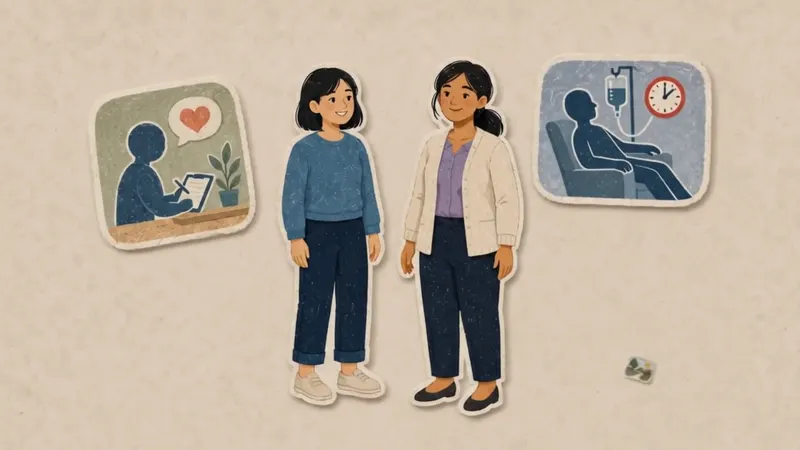
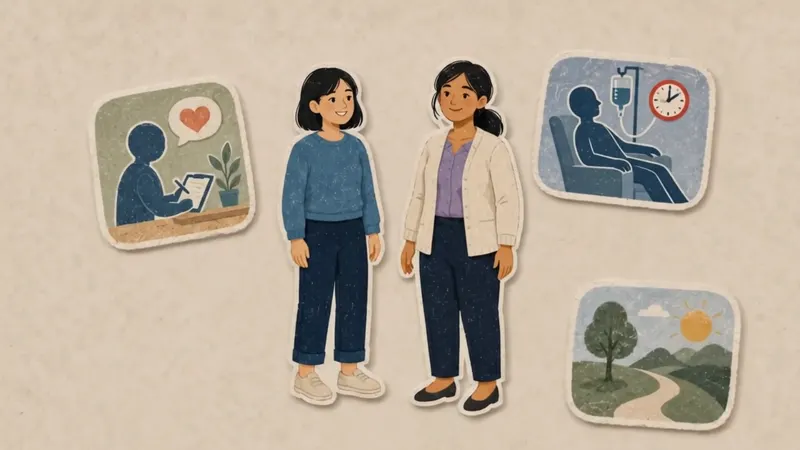
Update

Changed region(s): [[0.6875, 0.6222, 0.9375, 0.9644], [0.6562, 0.1244, 0.9062, 0.4978], [0.875, 0.3733, 0.9062, 0.4044]]

diff --git a/src/components/Navbar.jsx b/src/components/Navbar.jsx
@@ -85,9 +85,15 @@ const Navbar = () => {
       frame = 0;
       const header = document.querySelector('header');
       if (!header) return;
-      const y = Math.max(0, header.getBoundingClientRect().bottom - 2);
-      const under = document.elementsFromPoint(window.innerWidth / 2, y).find((el) => !header.contains(el));
-      setUseInverseNav(Boolean(under && under.closest('.hp-navy')));
+      /* sample the header's middle at three points and follow the majority, so it
+         flips when a navy sheet covers most of it, not at one pixel's edge */
+      const box = header.getBoundingClientRect();
+      const y = Math.max(0, box.top + box.height / 2);
+      const navy = [0.15, 0.5, 0.85].filter((fx) => {
+        const under = document.elementsFromPoint(window.innerWidth * fx, y).find((el) => !header.contains(el));
+        return Boolean(under && under.closest('.hp-navy'));
+      }).length;
+      setUseInverseNav(navy >= 2);
     };
     const onScroll = () => {
       if (!frame) frame = window.requestAnimationFrame(updateNavContrast);
@@ -110,7 +116,9 @@ const Navbar = () => {
   const navActiveColor = useInverseNav ? 'rgba(255,255,255,0.98)' : 'primary.main';
   const navSurfaceStyles = useInverseNav
     ? {
-        bgcolor: 'rgba(8, 20, 28, 0.28)',
+        /* near-opaque navy over the navy paper sheets, so cream content showing
+           through the glass can never wash out the light labels */
+        bgcolor: 'rgba(27, 69, 96, 0.94)',
         backdropFilter: 'blur(25px) saturate(180%)',
         WebkitBackdropFilter: 'blur(25px) saturate(180%)',
         borderBottom: 'none',
@@ -176,7 +184,7 @@ const Navbar = () => {
             color='primary'
             component={Link}
             href='/estimate'
-            sx={{ boxShadow: 'none', '&:hover': { boxShadow: 'none' }, color: 'white' }}
+            sx={{ bgcolor: '#00796b', boxShadow: 'none', '&:hover': { bgcolor: '#00695c', boxShadow: 'none' }, color: 'white' }}
           >
             {t('navbar.freeEstimate')}
           </Button>
@@ -358,8 +366,10 @@ const Navbar = () => {
                   href='/estimate'
                   sx={{
                     ml: 2,
+                    /* the brand teal one step deeper: white text at 5.3:1 (theme #00897b is 4.3:1) */
+                    bgcolor: '#00796b',
                     boxShadow: 'none',
-                    '&:hover': { boxShadow: 'none' },
+                    '&:hover': { bgcolor: '#00695c', boxShadow: 'none' },
                     color: 'white',
                   }}
                 >

diff --git a/src/app/not-found.jsx b/src/app/not-found.jsx
@@ -1,30 +1,50 @@
 'use client';
 
-import { Box, Typography, Button } from '@mui/material';
 import Link from 'next/link';
+import { House } from 'lucide-react';
+import Navbar from '@/components/Navbar';
+import Footer from '@/components/Footer';
+import PaperPage from '@/components/paper/PaperPage';
+import PageHero from '@/components/paper/PageHero';
+import { cls } from '@/components/paper/paperStyles';
+import { useLanguage } from '@/context/LanguageContext';
 
+const COPY = {
+  en: {
+    title: 'Page not found',
+    home: 'Go Home',
+    alt: 'Illustration from the MyHealth Haven film: a patient stands in a maze of grey paths.',
+  },
+  es: {
+    title: 'Página no encontrada',
+    home: 'Ir al inicio',
+    alt: 'Ilustración de la película de MyHealth Haven: una paciente de pie en un laberinto de caminos grises.',
+  },
+};
+
+/*
+ * 404 in the paper world: the site header and footer (so a lost visitor can find
+ * their way), and the film's maze before the path is found, with the way home as
+ * the one action. Same words as before ("404", "Page not found", "Go Home").
+ */
 export default function NotFound() {
+  const { language } = useLanguage();
+  const t = COPY[language === 'es' ? 'es' : 'en'];
+
   return (
-    <Box
-      sx={{
-        display: 'flex',
-        flexDirection: 'column',
-        alignItems: 'center',
-        justifyContent: 'center',
-        minHeight: '60vh',
-        textAlign: 'center',
-        p: 4,
-      }}
-    >
-      <Typography variant='h2' color='primary' gutterBottom fontWeight='bold'>
-        404
-      </Typography>
-      <Typography variant='h5' color='text.secondary' paragraph>
-        Page not found
-      </Typography>
-      <Button variant='contained' color='primary' component={Link} href='/'>
-        Go Home
-      </Button>
-    </Box>
+    <div className='flex min-h-screen flex-col'>
+      <Navbar />
+      <main className='flex-1'>
+        <PaperPage>
+          <PageHero id='nf-title' title='404' emphasis={t.title} frame={{ src: '/pages/lost-maze.webp', alt: t.alt }}>
+            <Link href='/' className={cls.btnPrimary}>
+              <House aria-hidden='true' className='size-5' />
+              {t.home}
+            </Link>
+          </PageHero>
+        </PaperPage>
+      </main>
+      <Footer />
+    </div>
   );
 }

diff --git a/src/app/(main)/loading.jsx b/src/app/(main)/loading.jsx
@@ -1,20 +1,31 @@
-import { Box, Container, Skeleton, Stack } from '@mui/material';
+/*
+ * Any page while it loads, as blank paper: the cream hero sheet (title, lead and
+ * button blocks beside a frame window) and the start of a kraft sheet below.
+ * Blocks pulse only when motion is allowed.
+ */
+const block = 'rounded-[6px] bg-[rgba(27,69,96,0.09)] motion-safe:animate-pulse';
 
 export default function Loading() {
   return (
-    <Box sx={{ py: { xs: 8, md: 12 } }}>
-      <Container maxWidth='lg'>
-        <Stack spacing={3}>
-          <Skeleton variant='text' width='50%' height={56} />
-          <Skeleton variant='text' width='80%' height={28} />
-          <Skeleton variant='rectangular' height={320} sx={{ borderRadius: 2 }} />
-          <Stack direction='row' spacing={2}>
-            <Skeleton variant='rectangular' width='33%' height={180} sx={{ borderRadius: 2 }} />
-            <Skeleton variant='rectangular' width='33%' height={180} sx={{ borderRadius: 2 }} />
-            <Skeleton variant='rectangular' width='33%' height={180} sx={{ borderRadius: 2 }} />
-          </Stack>
-        </Stack>
-      </Container>
-    </Box>
+    <div aria-busy='true'>
+      <div className='bg-[#f4eee5]'>
+        <div className='mx-auto grid w-full max-w-[1360px] grid-cols-1 items-center gap-10 px-4 pb-16 pt-10 sm:px-8 md:pb-20 md:pt-14 lg:grid-cols-[minmax(0,1fr)_minmax(0,1.05fr)] lg:gap-14 lg:px-12 lg:pb-24 lg:pt-16'>
+          <div className='max-w-[38rem]'>
+            <div className={`${block} h-12 w-[70%]`} />
+            <div className={`${block} mt-3 h-12 w-[50%]`} />
+            <div className={`${block} mt-8 h-5 w-[90%]`} />
+            <div className={`${block} mt-3 h-5 w-[75%]`} />
+            <div className={`${block} mt-9 h-[54px] w-[260px] max-w-full rounded-full`} />
+          </div>
+          <div className='aspect-video w-full rounded-[10px] bg-[#d1c5b4] motion-safe:animate-pulse' />
+        </div>
+      </div>
+      <div className='min-h-[40vh] bg-[#e9dfcf]'>
+        <div className='mx-auto w-full max-w-[1360px] px-4 py-14 sm:px-8 lg:px-12 lg:py-20'>
+          <div className={`${block} h-9 w-[40%] max-w-[28rem]`} />
+          <div className={`${block} mt-4 h-5 w-[60%] max-w-[36rem]`} />
+        </div>
+      </div>
+    </div>
   );
 }

diff --git a/src/app/(main)/library/costs-and-planning/[slug]/loading.jsx b/src/app/(main)/library/costs-and-planning/[slug]/loading.jsx
@@ -1,25 +1,31 @@
-import { Box, Container, Skeleton, Stack, Divider } from '@mui/material';
+/*
+ * An article while it loads, as blank paper: the kraft hero (crumbs, title,
+ * excerpt, meta) and the cream reading sheet with lines at the reading measure.
+ * Blocks pulse only when motion is allowed.
+ */
+const block = 'rounded-[6px] bg-[rgba(27,69,96,0.09)] motion-safe:animate-pulse';
 
 export default function ArticleLoading() {
   return (
-    <Box sx={{ py: { xs: 8, md: 12 }, bgcolor: 'background.paper', minHeight: '80vh' }}>
-      <Container maxWidth='md'>
-        <Stack spacing={2} sx={{ mb: 4 }}>
-          {/* Breadcrumbs */}
-          <Skeleton variant='text' width={260} height={20} />
-          {/* Title */}
-          <Skeleton variant='text' width='75%' height={56} />
-          {/* Summary */}
-          <Skeleton variant='text' width='90%' height={24} />
-          <Skeleton variant='text' width='60%' height={24} />
-        </Stack>
-        <Divider sx={{ mb: 6 }} />
-        <Stack spacing={2}>
-          {Array.from({ length: 8 }).map((_, i) => (
-            <Skeleton key={i} variant='text' width={`${85 + (i % 3) * 5}%`} height={20} />
-          ))}
-        </Stack>
-      </Container>
-    </Box>
+    <div aria-busy='true'>
+      <div className='bg-[#e9dfcf]'>
+        <div className='mx-auto w-full max-w-[1360px] px-4 pb-14 pt-8 sm:px-8 lg:px-12 lg:pb-20 lg:pt-12'>
+          <div className={`${block} h-4 w-[260px] max-w-full`} />
+          <div className={`${block} mt-8 h-11 w-[80%] max-w-[44rem]`} />
+          <div className={`${block} mt-3 h-11 w-[55%] max-w-[30rem]`} />
+          <div className={`${block} mt-7 h-5 w-[70%] max-w-[36rem]`} />
+          <div className={`${block} mt-5 h-4 w-[220px] max-w-full`} />
+        </div>
+      </div>
+      <div className='min-h-[60vh] bg-[#f4eee5]'>
+        <div className='mx-auto w-full max-w-[1360px] px-4 py-14 sm:px-8 lg:px-12 lg:py-20'>
+          <div className='max-w-[34rem]'>
+            {Array.from({ length: 9 }).map((_, i) => (
+              <div key={i} className={`${block} mt-4 h-4`} style={{ width: `${86 + (i % 3) * 6}%` }} />
+            ))}
+          </div>
+        </div>
+      </div>
+    </div>
   );
 }

diff --git a/src/app/(main)/library/getting-started/[slug]/loading.jsx b/src/app/(main)/library/getting-started/[slug]/loading.jsx
@@ -1,25 +1,31 @@
-import { Box, Container, Skeleton, Stack, Divider } from '@mui/material';
+/*
+ * An article while it loads, as blank paper: the kraft hero (crumbs, title,
+ * excerpt, meta) and the cream reading sheet with lines at the reading measure.
+ * Blocks pulse only when motion is allowed.
+ */
+const block = 'rounded-[6px] bg-[rgba(27,69,96,0.09)] motion-safe:animate-pulse';
 
 export default function ArticleLoading() {
   return (
-    <Box sx={{ py: { xs: 8, md: 12 }, bgcolor: 'background.paper', minHeight: '80vh' }}>
-      <Container maxWidth='md'>
-        <Stack spacing={2} sx={{ mb: 4 }}>
-          {/* Breadcrumbs */}
-          <Skeleton variant='text' width={260} height={20} />
-          {/* Title */}
-          <Skeleton variant='text' width='75%' height={56} />
-          {/* Summary */}
-          <Skeleton variant='text' width='90%' height={24} />
-          <Skeleton variant='text' width='60%' height={24} />
-        </Stack>
-        <Divider sx={{ mb: 6 }} />
-        <Stack spacing={2}>
-          {Array.from({ length: 8 }).map((_, i) => (
-            <Skeleton key={i} variant='text' width={`${85 + (i % 3) * 5}%`} height={20} />
-          ))}
-        </Stack>
-      </Container>
-    </Box>
+    <div aria-busy='true'>
+      <div className='bg-[#e9dfcf]'>
+        <div className='mx-auto w-full max-w-[1360px] px-4 pb-14 pt-8 sm:px-8 lg:px-12 lg:pb-20 lg:pt-12'>
+          <div className={`${block} h-4 w-[260px] max-w-full`} />
+          <div className={`${block} mt-8 h-11 w-[80%] max-w-[44rem]`} />
+          <div className={`${block} mt-3 h-11 w-[55%] max-w-[30rem]`} />
+          <div className={`${block} mt-7 h-5 w-[70%] max-w-[36rem]`} />
+          <div className={`${block} mt-5 h-4 w-[220px] max-w-full`} />
+        </div>
+      </div>
+      <div className='min-h-[60vh] bg-[#f4eee5]'>
+        <div className='mx-auto w-full max-w-[1360px] px-4 py-14 sm:px-8 lg:px-12 lg:py-20'>
+          <div className='max-w-[34rem]'>
+            {Array.from({ length: 9 }).map((_, i) => (
+              <div key={i} className={`${block} mt-4 h-4`} style={{ width: `${86 + (i % 3) * 6}%` }} />
+            ))}
+          </div>
+        </div>
+      </div>
+    </div>
   );
 }

diff --git a/src/components/library-paper/ArticleRail.jsx b/src/components/library-paper/ArticleRail.jsx
@@ -30,14 +30,14 @@ function SectionLinks({ toc, active = -1, onPick }) {
  * The article's side note on wide screens (xl up; it sits on the right anchor
  * and stays in view while reading): the way back to the article's category,
  * then, for a long article, its section headings as jump links (the one being
- * read is marked with the teal felt tile), or, for a short one, the article's
- * own meta line set as a small list. Below xl the breadcrumb on top, the
+ * read is marked with the teal felt tile); a short one shows the way back only
+ * (its meta line is already in the hero). Below xl the breadcrumb on top, the
  * ContentsFold and the back link under the article do the job.
  *
  * toc: [{ id, text }] from the article's own ## headings (ids set by the
- * markdown h2 renderer in ArticleDetail); meta: the hero's meta parts.
+ * markdown h2 renderer in ArticleDetail).
  */
-export default function ArticleRail({ back, toc, tocLabel, meta = [] }) {
+export default function ArticleRail({ back, toc, tocLabel }) {
   const [active, setActive] = useState(-1);
 
   useEffect(() => {
@@ -82,15 +82,6 @@ export default function ArticleRail({ back, toc, tocLabel, meta = [] }) {
             <SectionLinks toc={toc} active={active} />
           </div>
         </nav>
-      ) : meta.length ? (
-        <div role='list' className='m-0 mt-4 flex list-none flex-col gap-2.5 border-0 border-t border-dashed border-[rgba(27,69,96,0.22)] p-0 pt-5'>
-          {meta.map((part) => (
-            <div role='listitem' key={part} className='hl-rail-meta flex items-start gap-3 text-[0.9375rem] leading-[1.45] text-[#3f5868]'>
-              <span aria-hidden='true' className='hp-tile hp-tile-teal !mt-[0.42em] !h-[8px] !w-[16px]' />
-              {part}
-            </div>
-          ))}
-        </div>
       ) : null}
     </div>
   );

diff --git a/src/views/ComingSoon.jsx b/src/views/ComingSoon.jsx
@@ -11,11 +11,11 @@ import { cls } from '@/components/paper/paperStyles';
 const UI = {
   en: {
     back: 'Back to Procedures',
-    alt: 'Illustration from the MyHealth Haven film: an empty treatment room, ready, with an exam bed and monitors.',
+    alt: 'Illustration from the MyHealth Haven film: a Health Navigator lays out the pieces of a care plan on a table.',
   },
   es: {
     back: 'Volver a Procedimientos',
-    alt: 'Ilustración de la película de MyHealth Haven: una sala de tratamiento vacía y lista, con camilla y monitores.',
+    alt: 'Ilustración de la película de MyHealth Haven: una Health Navigator acomoda sobre una mesa las piezas de un plan de atención.',
   },
 };
 
@@ -34,7 +34,7 @@ const ComingSoon = () => {
         className='flex min-h-[calc(100svh-64px)] items-center lg:min-h-[calc(100svh-92px)]'
         emphasis={t('misc.comingSoon')}
         lead={t('misc.comingSoonDesc')}
-        frame={{ src: '/pages/procedures-clinic.webp', alt: ui.alt }}
+        frame={{ src: '/pages/coming-plan.webp', alt: ui.alt }}
       >
         <div className='flex flex-col gap-3 sm:flex-row sm:flex-wrap'>
           <Link href='/' className={cls.btnPrimary}>

diff --git a/src/views/ForEmployers.jsx b/src/views/ForEmployers.jsx
@@ -47,12 +47,12 @@ const COPY = {
    new-tab hint for screen readers */
 const UI = {
   en: {
-    alt: 'Illustration from the MyHealth Haven film: a patient and her Health Navigator stand side by side between two care scenes, a check-in at a desk and a treatment chair.',
+    alt: 'Illustration from the MyHealth Haven film: a patient and her Health Navigator stand side by side among three care scenes: a video call, a treatment chair with a clock, and a path through the countryside.',
     readDoc: 'Read the document',
     newTab: '(opens in a new tab)',
   },
   es: {
-    alt: 'Ilustración de la película de MyHealth Haven: una paciente y su Health Navigator, una al lado de la otra, entre dos escenas de atención: un seguimiento en un escritorio y un sillón de tratamiento.',
+    alt: 'Ilustración de la película de MyHealth Haven: una paciente y su Health Navigator, una al lado de la otra, entre tres escenas de atención: una videollamada, un sillón de tratamiento con un reloj y un camino por el campo.',
     readDoc: 'Leer el documento',
     newTab: '(se abre en una pestaña nueva)',
   },

diff --git a/src/components/medical-travel-paper/JourneyClose.jsx b/src/components/medical-travel-paper/JourneyClose.jsx
@@ -39,7 +39,7 @@ export default function JourneyClose() {
           {t('medicalTravelPage.timelineConclusion.title')}
         </h2>
         <p className='mb-0 mt-5 font-[family-name:var(--font-hh-display)] text-[1.5rem] leading-[1.35] text-[#1b4560] sm:text-[1.75rem]'>
-          <span className='hp-felt-text'>{t('medicalTravelPage.timelineConclusion.subtitle')}</span>
+          <span className='hp-felt-text hp-felt-lines'>{t('medicalTravelPage.timelineConclusion.subtitle')}</span>
         </p>
         <p className={`${cls.lead} mt-6`}>
           {t('medicalTravelPage.timelineConclusion.description')}

diff --git a/src/views/About.jsx b/src/views/About.jsx
@@ -130,7 +130,8 @@ const About = () => {
         {content.introFollow ? (
           <p className='m-0 max-w-[34rem] font-[family-name:var(--font-hh-display)] text-[1.375rem] leading-[1.35] text-[#1b4560]'>{content.introFollow}</p>
         ) : null}
-        <Link href='/schedule' className={`${cls.btnPrimary} mt-7`}>
+        {/* one step smaller on phones so the Spanish label fits on one line */}
+        <Link href='/schedule' className={`${cls.btnPrimary} mt-7 max-sm:!text-[1rem]`}>
           <CalendarDays aria-hidden='true' className='size-5' />
           {content.contactCta}
         </Link>

diff --git a/src/views/ArticleDetail.jsx b/src/views/ArticleDetail.jsx
@@ -196,7 +196,7 @@ const ArticleDetail = ({ slug }) => {
         >
           <aside className='hidden xl:col-start-2 xl:row-start-1 xl:block'>
             <div className='sticky top-[120px] max-w-[22rem]'>
-              <ArticleRail back={back} toc={toc} tocLabel={labels.onThisPage} meta={metaParts} />
+              <ArticleRail back={back} toc={toc} tocLabel={labels.onThisPage} />
             </div>
           </aside>
           <div className='min-w-0 xl:col-start-1 xl:row-start-1'>

diff --git a/src/components/medical-travel-paper/TravelHero.jsx b/src/components/medical-travel-paper/TravelHero.jsx
@@ -28,7 +28,7 @@ export default function TravelHero() {
       <>
         <span className='mt-bal'>{fullTitle.slice(0, at)}</span> <br />
         <span className='mt-bal'>
-          <span className='hp-felt-text'>{fullTitle.slice(at + 1)}</span>
+          <span className='hp-felt-text hp-felt-lines'>{fullTitle.slice(at + 1)}</span>
         </span>
       </>
     ) : (
